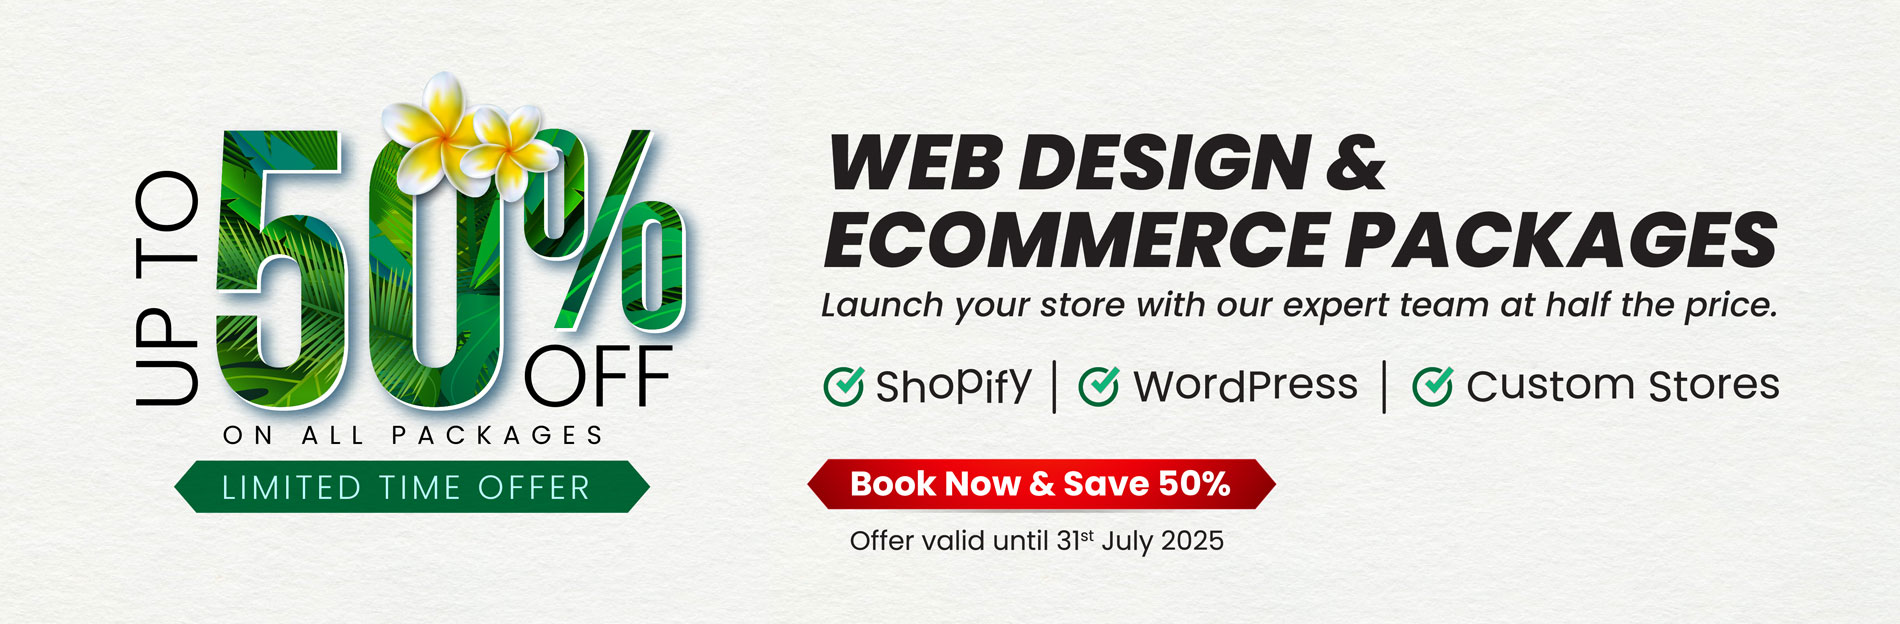
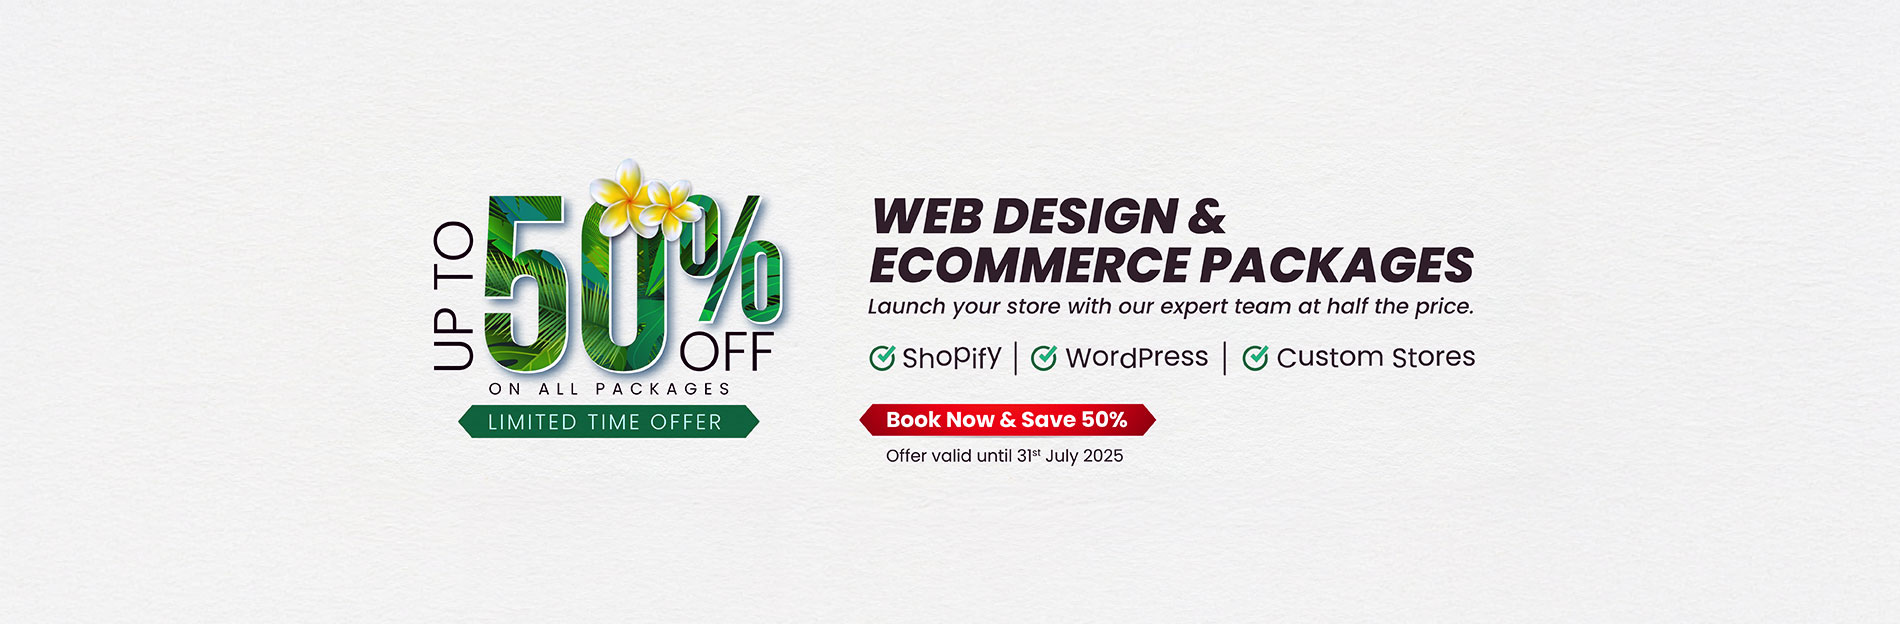
team added july 1

diff --git a/about.html b/about.html
@@ -4,8 +4,8 @@
 <head>
   <meta charset="utf-8">
   <meta content="width=device-width, initial-scale=1.0" name="viewport">
-  <title>About Me - Pradeep Kumar Nirmal Shopify Developer India</title>
-<meta name="description" content="About Me - Pradeep Kumar Nirmal Shopify Developer India, Best Shopify Developers India, Shopify Store Developer, Shopify Store Designer on remote for create your store."/>
+  <title>About - Web Design eCom Agency and Company </title>
+<meta name="description" content="Web Design eCom Agency offers affordabl website design, development & SEO services for businesses – Remote, Reliable & Budget-Friendly Solutions."/>
 <meta name="robots" content="follow, index, max-snippet:-1, max-video-preview:-1, max-image-preview:large"/>
 <link rel="canonical" href="https://webdesignecom.github.io/about.html" />
 <script type="application/ld+json">
@@ -67,11 +67,9 @@
               
               
               <h1 class="mb-4">
-                <span class="accent-text">About</span> Shopify Developer                
-              </h1>              
-              <p style="text-align: left;">
-                With 15+ years of experience, Shopify and Shopify Plus developers in India excel in creating custom, high-performance eCommerce websites. Skilled in advanced functionality, scalability, and user-friendly design, they deliver tailored solutions for both startups and large-scale brands, transforming ideas into impactful online stores that drive business growth.
-              </p> 
+                <span class="accent-text">About</span> Web Design eCom Agency </h1> 
+                <p><a href="https://webdesignecom.com/" target="_blank">Web Design eCom</a>, the top <b>Ecommerce Web Designing Agency</b> providing remote services in <b><a href="website-design-india.html">India</a>, <a href="website-design-usa.html">USA</a>, <a href="website-design-canada.html">Canada</a>, UK, <a href="website-design-australia.html">Australia</a>, Europe, <a href="website-design-services.html  ">Near You </a>or Around the world</b>, excels at creating online stores that are aesthetically pleasing, easy to use, and conversion-optimized.</p>             
+                <p><b>Our professional e-commerce web design services</b> to elevate your online store to new heights. We build mobile-responsive, aesthetically beautiful, and user-friendly websites that draw in visitors and increase conversions. Our designs provide a faultless purchasing experience that is customized to your brand's own personality, from smooth navigation to safe payment integrations. Let us turn clicks into devoted clients!</p>
             </div>
           </div>          
         </div>
@@ -81,60 +79,49 @@
     <!-- /Hero Section -->
 
     
-    <!-- Call To Action Section -->
-    <section id="call-to-action" class="call-to-action section">
-
-      <div class="container" data-aos="fade-up" data-aos-delay="100">
-
+    <!-- Team Section -->
+    <section class="section">
+      <!-- Section Title -->
+      <div class="container section-title" data-aos="fade-up">
+        <h2>Our Team</h2>
+      </div><!-- End Section Title -->
+      <div class="container our-team" data-aos="fade-up" data-aos-delay="100">
+        
         <div class="row justify-content-center align-items-center position-relative">
-          <div class="col-lg-8 mx-auto text-center">
-            <h2 class="display-4 mb-4">Let’s Talk Ecommerce, Shopify & Shopify Plus Solutions.</h2>
-            <p class="mb-4">I am a Shopify Developer work closely with ambitious brands of all sizes to create the very best ecommerce experiences. We are a Shopify developer, ready when you are.</p>
-            <a href="https://wa.me/918383081676?text=Hello Pradeep, I have contacted you through Github." class="btn btn-cta">Let’s Talk</a>
+          <div class="col-sm-4 mx-auto text-center">
+            <img src="assets/img/pradeep-nirmal.png" class="w-100" alt="Pradeep Kumar Nirmal">
+            <h4>Pradeep Kumar Nirmal</h4>
+            <p>Founder | Developer</p>
           </div>
-
-          <!-- Abstract Background Elements -->
-          <div class="shape shape-1">
-            <svg viewBox="0 0 200 200" xmlns="http://www.w3.org/2000/svg">
-              <path d="M47.1,-57.1C59.9,-45.6,68.5,-28.9,71.4,-10.9C74.2,7.1,71.3,26.3,61.5,41.1C51.7,55.9,35,66.2,16.9,69.2C-1.3,72.2,-21,67.8,-36.9,57.9C-52.8,48,-64.9,32.6,-69.1,15.1C-73.3,-2.4,-69.5,-22,-59.4,-37.1C-49.3,-52.2,-32.8,-62.9,-15.7,-64.9C1.5,-67,34.3,-68.5,47.1,-57.1Z" transform="translate(100 100)"></path>
-            </svg>
+          <div class="col-sm-4 mx-auto text-center">
+            <img src="assets/img/raman-talpada.png" class="w-100" alt="Raman Talpada">
+            <h4>Raman Talpada</h4>
+            <p>Creative Director</p>
           </div>
-
-          <div class="shape shape-2">
-            <svg viewBox="0 0 200 200" xmlns="http://www.w3.org/2000/svg">
-              <path d="M41.3,-49.1C54.4,-39.3,66.6,-27.2,71.1,-12.1C75.6,3,72.4,20.9,63.3,34.4C54.2,47.9,39.2,56.9,23.2,62.3C7.1,67.7,-10,69.4,-24.8,64.1C-39.7,58.8,-52.3,46.5,-60.1,31.5C-67.9,16.4,-70.9,-1.4,-66.3,-16.6C-61.8,-31.8,-49.7,-44.3,-36.3,-54C-22.9,-63.7,-8.2,-70.6,3.6,-75.1C15.4,-79.6,28.2,-58.9,41.3,-49.1Z" transform="translate(100 100)"></path>
-            </svg>
+          <div class="col-sm-4 mx-auto text-center">
+            <img src="assets/img/vinod-talpada.png" class="w-100" alt="Vinod Talpada">
+            <h4>Vinod Talpada</h4>
+            <p>UI/UX Designer</p>
           </div>
-
-          <!-- Dot Pattern Groups -->
-          <div class="dots dots-1">
-            <svg viewBox="0 0 100 100" xmlns="http://www.w3.org/2000/svg">
-              <pattern id="dot-pattern" x="0" y="0" width="20" height="20" patternUnits="userSpaceOnUse">
-                <circle cx="2" cy="2" r="2" fill="currentColor"></circle>
-              </pattern>
-              <rect width="100" height="100" fill="url(#dot-pattern)"></rect>
-            </svg>
+          <div class="col-sm-4 mx-auto text-center">
+            <img src="assets/img/sanjeev-kashyap.png" class="w-100" alt="Sanjeev Kashyap">
+            <h4>Sanjeev Kashyap</h4>
+            <p>Shopify/WordPress Developer</p>
           </div>
-
-          <div class="dots dots-2">
-            <svg viewBox="0 0 100 100" xmlns="http://www.w3.org/2000/svg">
-              <pattern id="dot-pattern-2" x="0" y="0" width="20" height="20" patternUnits="userSpaceOnUse">
-                <circle cx="2" cy="2" r="2" fill="currentColor"></circle>
-              </pattern>
-              <rect width="100" height="100" fill="url(#dot-pattern-2)"></rect>
-            </svg>
+          <div class="col-sm-4 mx-auto text-center">
+            <img src="assets/img/shubham.png" class="w-100" alt="Shubham Kumar">
+            <h4>Shubham Kumar</h4>
+            <p>Video/Reals Creator</p>
           </div>
-
-          <div class="shape shape-3">
-            <svg viewBox="0 0 200 200" xmlns="http://www.w3.org/2000/svg">
-              <path d="M43.3,-57.1C57.4,-46.5,71.1,-32.6,75.3,-16.2C79.5,0.2,74.2,19.1,65.1,35.3C56,51.5,43.1,65,27.4,71.7C11.7,78.4,-6.8,78.3,-23.9,72.4C-41,66.5,-56.7,54.8,-65.4,39.2C-74.1,23.6,-75.8,4,-71.7,-13.2C-67.6,-30.4,-57.7,-45.2,-44.3,-56.1C-30.9,-67,-15.5,-74,0.7,-74.9C16.8,-75.8,33.7,-70.7,43.3,-57.1Z" transform="translate(100 100)"></path>
-            </svg>
+          <div class="col-sm-4 mx-auto text-center">
+            <img src="assets/img/vivek.png" class="w-100" alt="Vivek Kumar">
+            <h4>Vivek Kumar</h4>
+            <p>Graphic Designer</p>
           </div>
-        </div>
-
       </div>
 
-    </section><!-- /Call To Action Section -->
+    </section>
+    <!-- /Team Section -->
 
     <!-- Clients Section -->
     <section class="clients section">
@@ -225,6 +212,62 @@
       </div>
 
     </section><!-- /Clients Section -->
+
+    <!-- Call To Action Section -->
+    <section id="call-to-action" class="call-to-action section">
+
+      <div class="container" data-aos="fade-up" data-aos-delay="100">
+
+        <div class="row justify-content-center align-items-center position-relative">
+          <div class="col-lg-8 mx-auto text-center">
+            <h2 class="display-4 mb-4">Let’s Talk for Web Design & Ecommerce Development.</h2>
+            <p class="mb-4">We provide web design & e-commerce development services and work closely with ambitious brands of all sizes to create the very best ecommerce experiences.</p>
+            <a href="https://wa.me/918383081676?text=Hello Pradeep, I have contacted you through Github." class="btn btn-cta">Let’s Talk</a>
+          </div>
+
+          <!-- Abstract Background Elements -->
+          <div class="shape shape-1">
+            <svg viewBox="0 0 200 200" xmlns="http://www.w3.org/2000/svg">
+              <path d="M47.1,-57.1C59.9,-45.6,68.5,-28.9,71.4,-10.9C74.2,7.1,71.3,26.3,61.5,41.1C51.7,55.9,35,66.2,16.9,69.2C-1.3,72.2,-21,67.8,-36.9,57.9C-52.8,48,-64.9,32.6,-69.1,15.1C-73.3,-2.4,-69.5,-22,-59.4,-37.1C-49.3,-52.2,-32.8,-62.9,-15.7,-64.9C1.5,-67,34.3,-68.5,47.1,-57.1Z" transform="translate(100 100)"></path>
+            </svg>
+          </div>
+
+          <div class="shape shape-2">
+            <svg viewBox="0 0 200 200" xmlns="http://www.w3.org/2000/svg">
+              <path d="M41.3,-49.1C54.4,-39.3,66.6,-27.2,71.1,-12.1C75.6,3,72.4,20.9,63.3,34.4C54.2,47.9,39.2,56.9,23.2,62.3C7.1,67.7,-10,69.4,-24.8,64.1C-39.7,58.8,-52.3,46.5,-60.1,31.5C-67.9,16.4,-70.9,-1.4,-66.3,-16.6C-61.8,-31.8,-49.7,-44.3,-36.3,-54C-22.9,-63.7,-8.2,-70.6,3.6,-75.1C15.4,-79.6,28.2,-58.9,41.3,-49.1Z" transform="translate(100 100)"></path>
+            </svg>
+          </div>
+
+          <!-- Dot Pattern Groups -->
+          <div class="dots dots-1">
+            <svg viewBox="0 0 100 100" xmlns="http://www.w3.org/2000/svg">
+              <pattern id="dot-pattern" x="0" y="0" width="20" height="20" patternUnits="userSpaceOnUse">
+                <circle cx="2" cy="2" r="2" fill="currentColor"></circle>
+              </pattern>
+              <rect width="100" height="100" fill="url(#dot-pattern)"></rect>
+            </svg>
+          </div>
+
+          <div class="dots dots-2">
+            <svg viewBox="0 0 100 100" xmlns="http://www.w3.org/2000/svg">
+              <pattern id="dot-pattern-2" x="0" y="0" width="20" height="20" patternUnits="userSpaceOnUse">
+                <circle cx="2" cy="2" r="2" fill="currentColor"></circle>
+              </pattern>
+              <rect width="100" height="100" fill="url(#dot-pattern-2)"></rect>
+            </svg>
+          </div>
+
+          <div class="shape shape-3">
+            <svg viewBox="0 0 200 200" xmlns="http://www.w3.org/2000/svg">
+              <path d="M43.3,-57.1C57.4,-46.5,71.1,-32.6,75.3,-16.2C79.5,0.2,74.2,19.1,65.1,35.3C56,51.5,43.1,65,27.4,71.7C11.7,78.4,-6.8,78.3,-23.9,72.4C-41,66.5,-56.7,54.8,-65.4,39.2C-74.1,23.6,-75.8,4,-71.7,-13.2C-67.6,-30.4,-57.7,-45.2,-44.3,-56.1C-30.9,-67,-15.5,-74,0.7,-74.9C16.8,-75.8,33.7,-70.7,43.3,-57.1Z" transform="translate(100 100)"></path>
+            </svg>
+          </div>
+        </div>
+
+      </div>
+
+    </section>
+    <!-- /Call To Action Section -->
 
     <!-- Testimonials Section -->
     <section class="testimonials section light-background">

diff --git a/website-design-development-packages.html b/website-design-development-packages.html
@@ -54,12 +54,42 @@
 
   <main class="main blog-page">
     <!-- banner slider -->
-    <div id="main-banner-dynamic"></div>
+    <div class="innerpage-banner">      
+      <img class="banner-display-desk" src="assets/img/innerpage-banner.jpg" alt="Web Design Agency">
+      <img class="w-100 banner-display-mob" src="../assets/img/banner2m.jpg" alt="Web Design Offer">
+    </div>
     <!-- banner slider -->
+     <!-- CTA Section -->
+    <div class="banner-cta">
+      <div class="container">    
+        <div class="row">
+          <div class="col-lg-4 col-sm-4 banner-back-mob">
+              <div class="row banner-mob-gap">
+                <div class="col-3"><img src="../assets/img/quality-icon.jpg" alt="Quality"></div>
+                <div class="col-9 cta-text">Quality <br>You Can Trust</div>
+              </div>
+          </div>
+          <div class="col-lg-4 col-sm-4 banner-back-mob">
+              <div class="row banner-mob-gap">
+                <div class="col-3"><img src="../assets/img/price-icon.jpg" alt="Pricing"></div>
+                <div class="col-9 cta-text">Affordable  <br>Price Guarantee</div>
+              </div>
+          </div>
+          <div class="col-lg-4 col-sm-4 banner-back-mob">
+              <div class="row banner-mob-gap">
+                <div class="col-3"><img src="../assets/img/hand-icon.jpg" alt="Growth"></div>
+                <div class="col-9 cta-text">Growth <br>That Matters</div>
+              </div>
+          </div>
+        </div> 
+      </div>
+
+    </div>
+    <!-- /CTA Section -->
 
     <!-- Hero Section -->
-    <section id="hero" class="hero section">
-      <div class="container" data-aos="zoom-in" data-aos-delay="100">
+    <section>
+      <div class="container">
         <div class="row align-items-center">          
           <div class="col-lg-12">
             <div class="hero-content">             
@@ -78,7 +108,6 @@
       <div class="container" data-aos="fade-up" data-aos-delay="100">
         <div class="row" data-aos="fade-up" data-aos-delay="100">
             <main>
-              <div class="text-center mb-4"><span class="ourprice">Special Discount! Save Flat 50% On All Packages (Ends Soon)</span></div>
                 <div class="row row-cols-1 row-cols-md-3 mb-3 text-center">
                   <div class="col">
                     <div class="card mb-4 rounded-3 shadow-sm">

diff --git a/our-portfolio.html b/our-portfolio.html
@@ -54,12 +54,44 @@
 
   <main class="main blog-page">
     <!-- banner slider -->
-    <div id="main-banner-dynamic"></div>
+    <div class="innerpage-banner">
+      <a href="website-design-development-packages.html">
+      <img class="banner-display-desk" src="assets/img/innerpage-banner.jpg" alt="Web Design Agency">
+      <img class="w-100 banner-display-mob" src="../assets/img/banner2m.jpg" alt="Web Design Offer">
+      </a>
+    </div>
     <!-- banner slider -->
+     <!-- CTA Section -->
+    <div class="banner-cta">
+      <div class="container">    
+        <div class="row">
+          <div class="col-lg-4 col-sm-4 banner-back-mob">
+              <div class="row banner-mob-gap">
+                <div class="col-3"><img src="../assets/img/quality-icon.jpg" alt="Quality"></div>
+                <div class="col-9 cta-text">Quality <br>You Can Trust</div>
+              </div>
+          </div>
+          <div class="col-lg-4 col-sm-4 banner-back-mob">
+              <div class="row banner-mob-gap">
+                <div class="col-3"><img src="../assets/img/price-icon.jpg" alt="Pricing"></div>
+                <div class="col-9 cta-text">Affordable  <br>Price Guarantee</div>
+              </div>
+          </div>
+          <div class="col-lg-4 col-sm-4 banner-back-mob">
+              <div class="row banner-mob-gap">
+                <div class="col-3"><img src="../assets/img/hand-icon.jpg" alt="Growth"></div>
+                <div class="col-9 cta-text">Growth <br>That Matters</div>
+              </div>
+          </div>
+        </div> 
+      </div>
+
+    </div>
+    <!-- /CTA Section -->
     <!-- Clients Section -->
-    <section class="clients section mt-5">
+    <section class="clients section">
       <!-- Section Title -->
-      <div class="container section-title" data-aos="fade-up">
+      <div class="container section-title">
         <h1>Our Portfolio: Our Actual Achievements</h1>
         <p>Every project at Web Design eCom demonstrates commitment, planning, and quantifiable outcomes. Our <b>case studies demonstrate</b> how we have used data-driven marketing, creative digital solutions, and SEO tactics to revolutionize companies in a variety of industries. Explore these success stories to see how we transform obstacles into chances and objectives into accomplishments.</p>
       </div><!-- End Section Title -->

diff --git a/assets/css/custom.css b/assets/css/custom.css
@@ -147,11 +147,19 @@ tr:nth-child(even) {
 }
 .industry iframe {width: 100%; height: 450px;}
 
+.our-team {background-color: #3b82f6; border-radius: 10px; padding: 4rem 8rem;}
+.our-team img {padding:0 4rem; }
+.our-team h4 {font-size: 18px; color: #fff; padding-top: 15px; padding-bottom: 0;}
+.our-team p {font-size: 12px; color: #fff;}
+.innerpage-banner {margin-top: 80px;}
+.innerpage-banner img {width: 100%;}
+
 @media (max-width: 992px) {
 .banner-cta {background-color: #fff; padding: 10px; margin-bottom: -30px;}
 .banner-back-mob {background-color: var(--accent-color); margin: 4px; border-radius: 10px;}
 .banner-mob-gap {margin: 30px;}
 .banner-cta img {width: 130%}
+.innerpage-banner {margin-top: 50px;}
 .cta-text {font-size: .9rem; padding-top: 0;}
 .hero {padding-top: 100px;}    
 .hero-image-inner {margin-bottom: 0px; margin-top: -20px; max-width: 100px !important;}
@@ -195,5 +203,11 @@ tr:nth-child(even) {
 .about .about-description {font-size: 16px;}
 .about .feature-list li {font-size: 16px; text-align: left;}
 .footer .copyright {margin-bottom: 20px;}
+.our-team {padding: 2rem;}
+.our-team img {padding:0 1rem; }
 
-  }
+}
+
+/* @media screen and (min-device-width: 10px) and (max-device-width: 600px) { 
+
+} */

diff --git a/assets/css/main.css b/assets/css/main.css
@@ -692,7 +692,7 @@ section,
 --------------------------------------------------------------*/
 .section-title {
   text-align: center;
-  padding-bottom: 60px;
+  padding-bottom: 10px;
   position: relative;
 }
 
